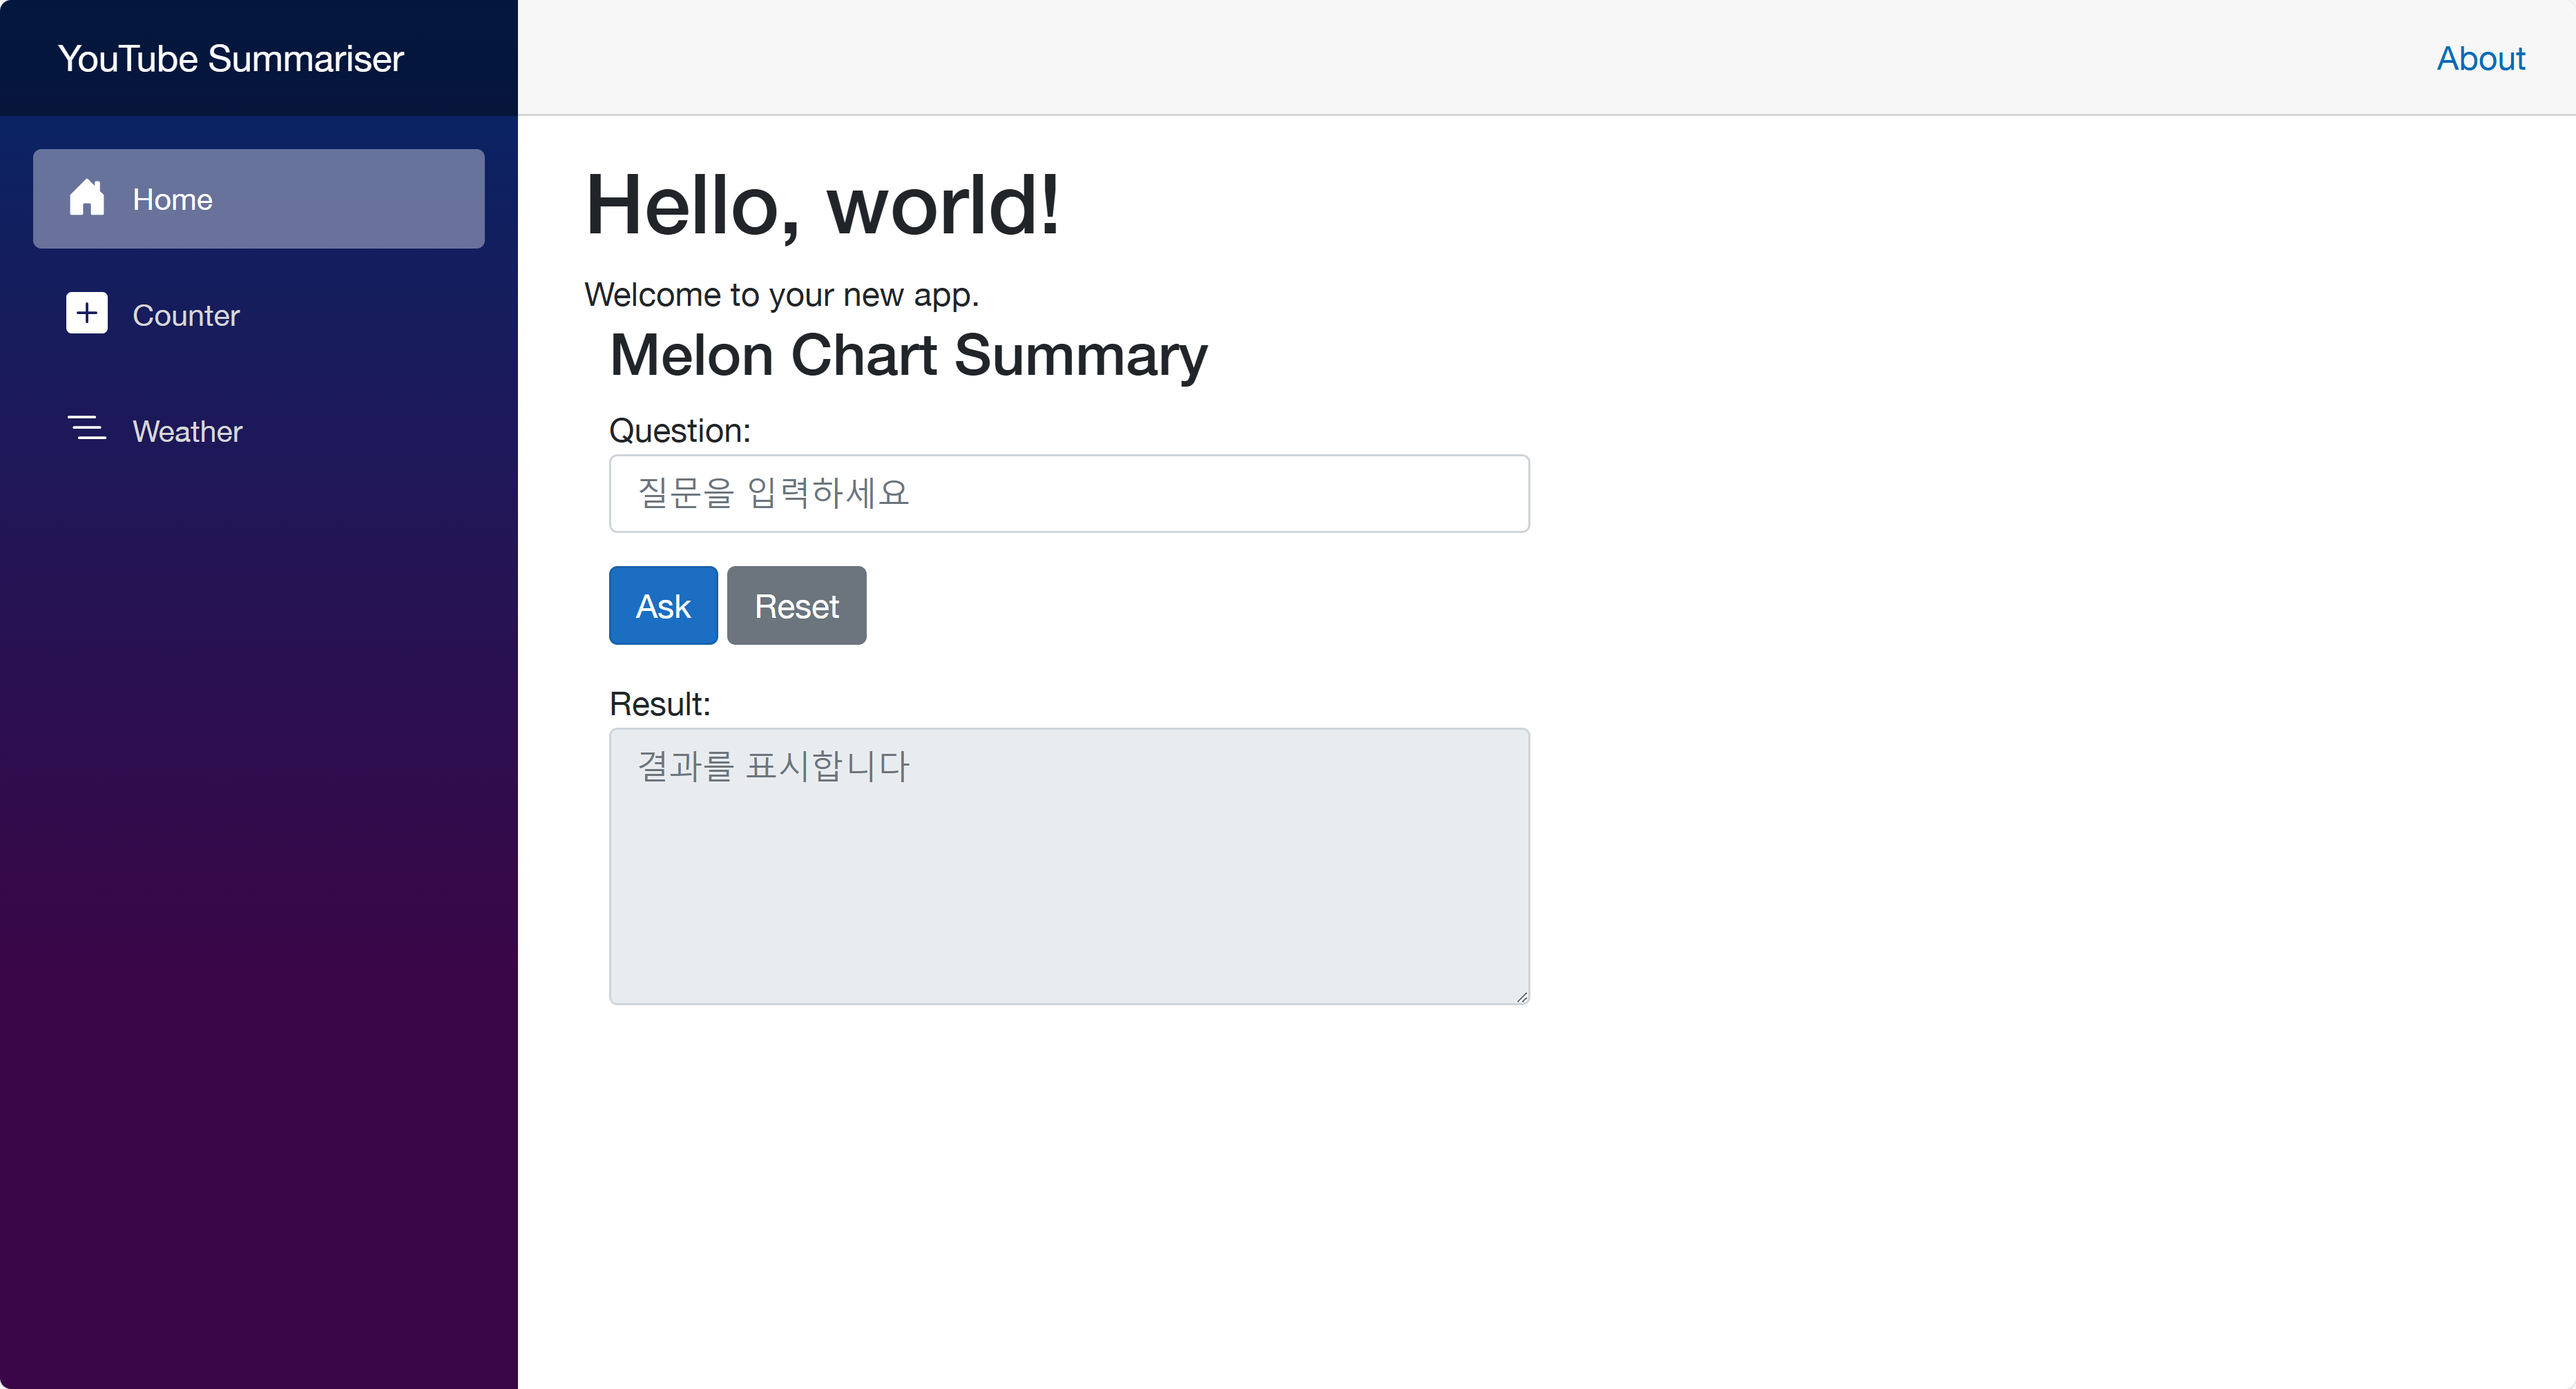
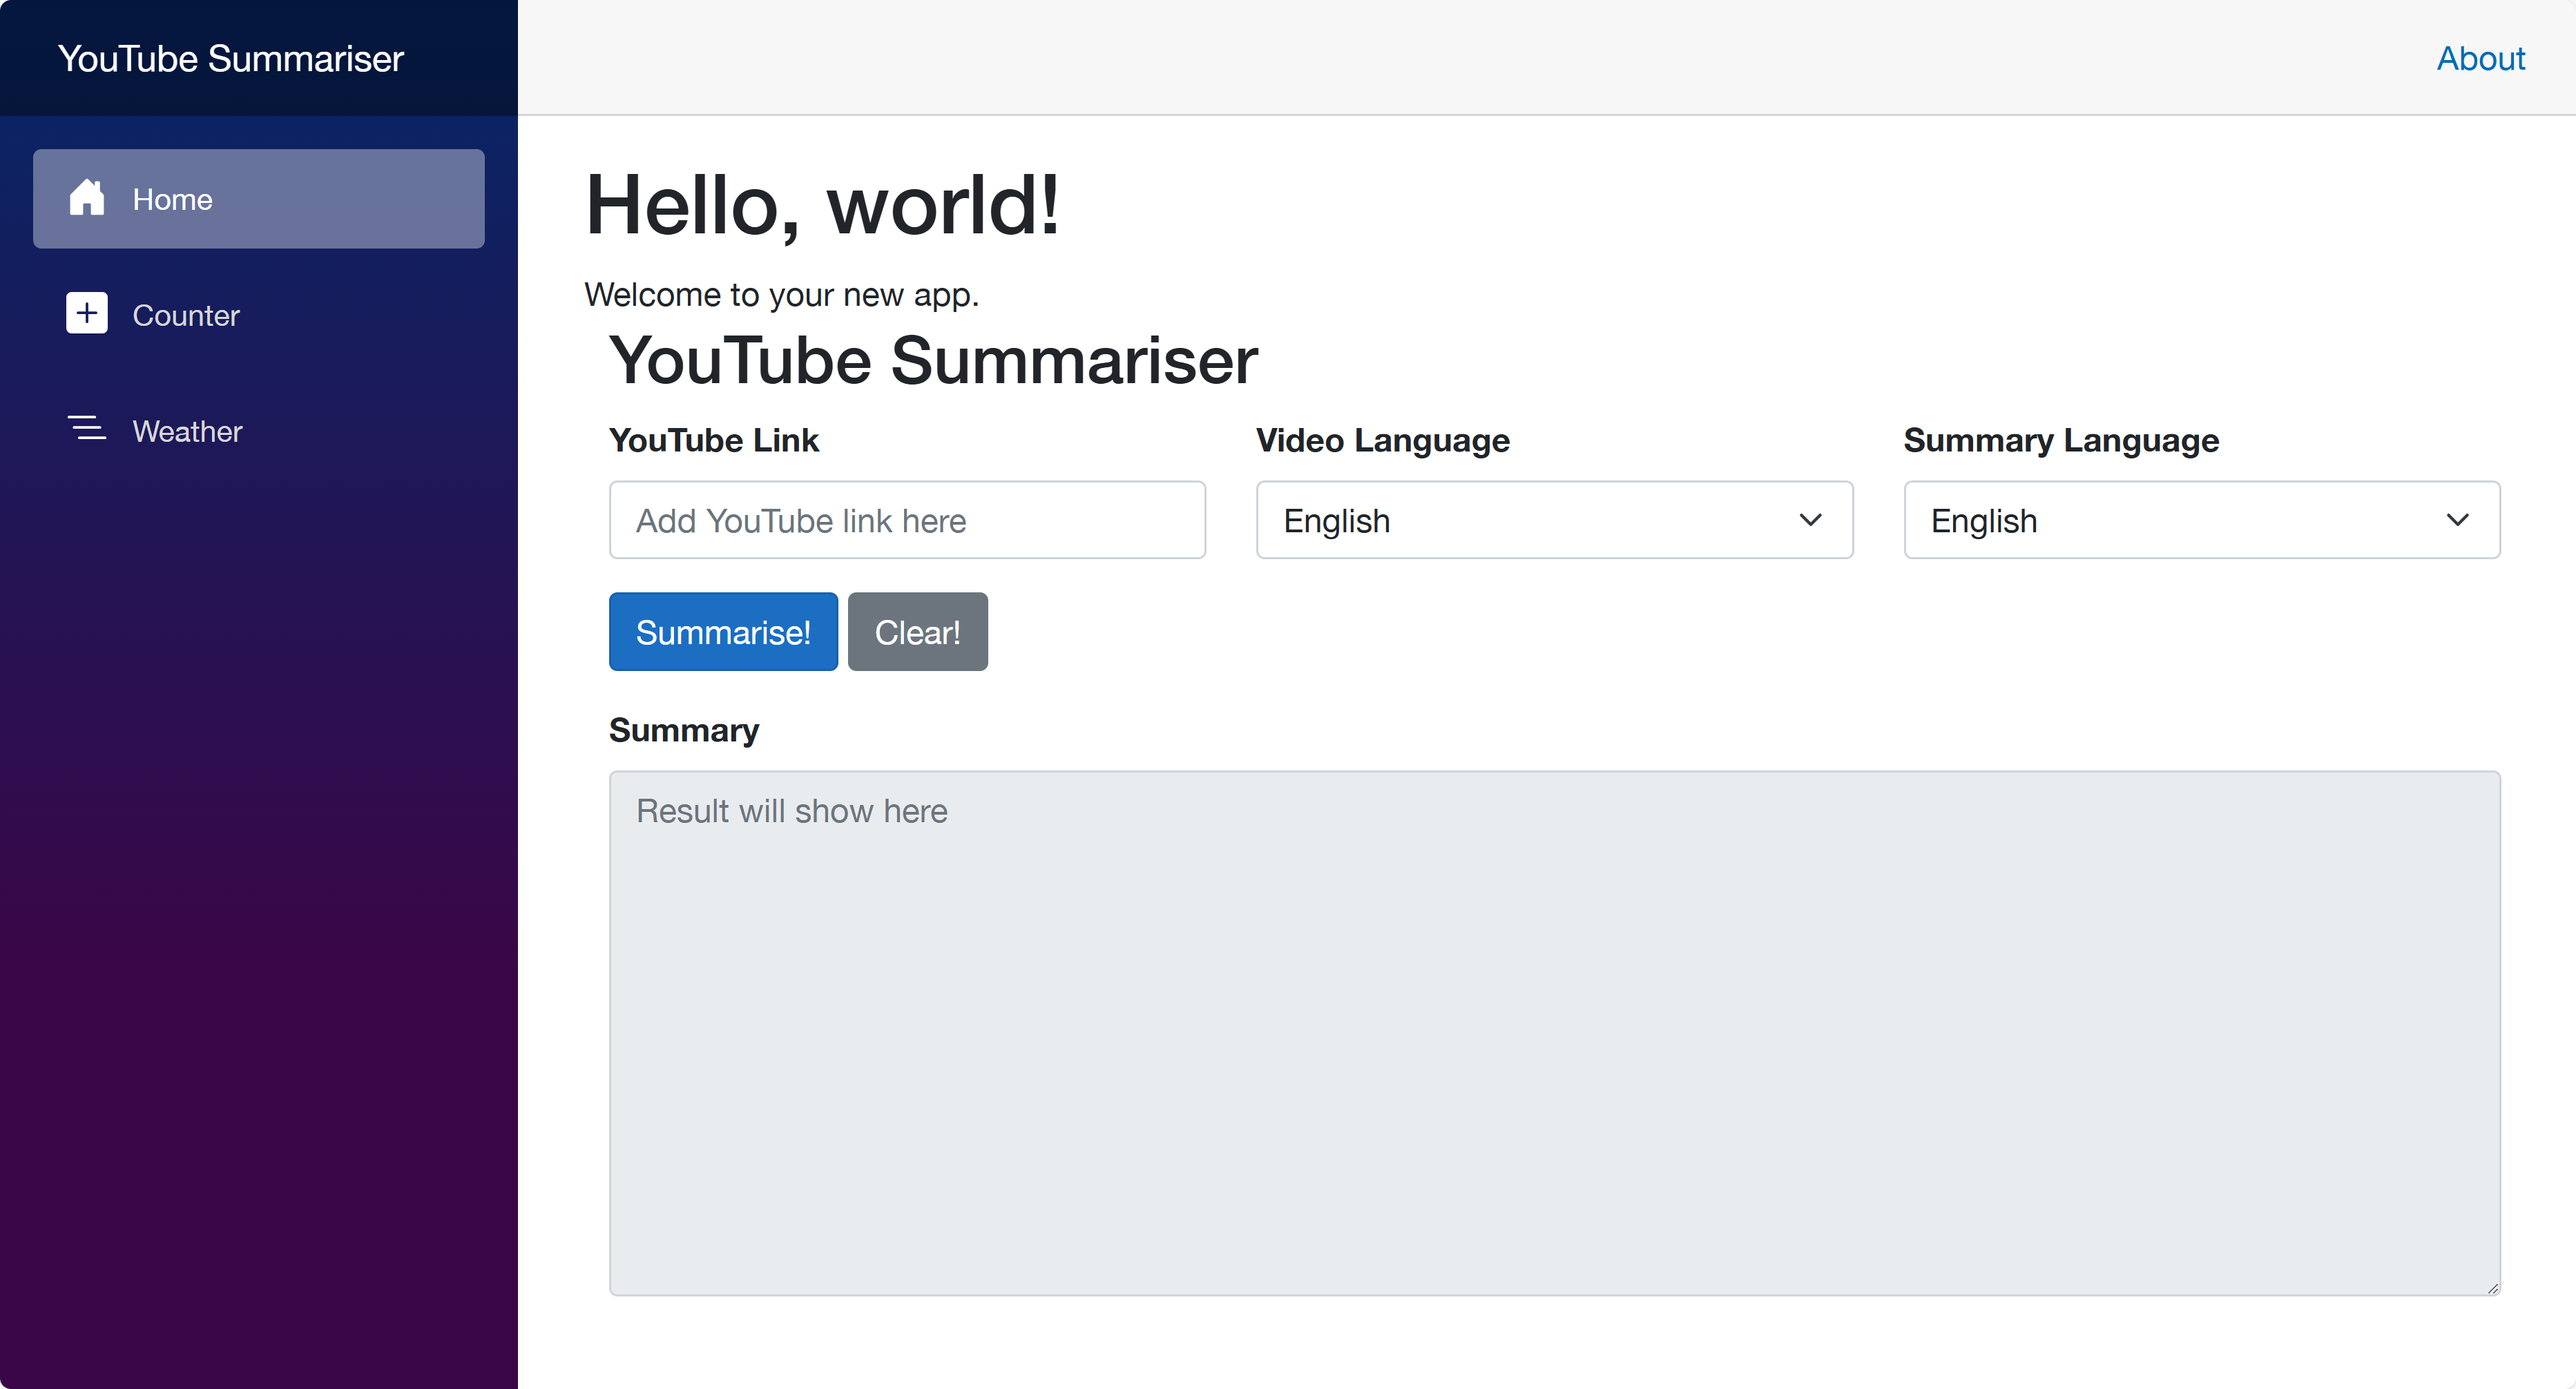
Update README

diff --git a/README.md b/README.md
@@ -20,55 +20,68 @@
      - 홈페이지에서 질문을 입력하고 결과를 표시하는 화면을 구성합니다.
      - 화면 UI는 자유롭게 구성하되 질문을 입력하고 결과를 표시할 수 있어야 합니다.
 
-       > **중요**: 반드시 아래 세 가지 요소를 포함해야 합니다.
+       > **중요**: 반드시 아래 다섯 가지 요소를 반드시 포함해야 합니다.
 
-       - 질문: `<input id="question" />`,
-       - 요청: `<button id="ask">Ask</button>`,
+       - YouTube 링크: `<input id="youtube-link" />`,
+       - 비디오 언어: `<select id="video-language-code"></select>`,
+       - 요약 언어: `<select id="summary-language-code"></select>`
+       - 요청: `<button id="summary">Summary</button>`,
        - 답변: `<textarea id="result"></textarea>`
 
-     - `Ask` 버튼을 클릭하면, 백엔드 API 앱의 `/melonchart` 엔드포인트를 호출해서 결과를 화면에 표시해야 합니다.
+     - `Summary` 버튼을 클릭하면, 백엔드 API 앱의 `/summarise` 엔드포인트를 호출해서 결과를 화면에 표시해야 합니다.
 
      - 예시 화면:
 
        ![frontend](./images/example-frontend.png)
 
    - 백엔드 API 앱: `backend` 디렉토리 아래 ASP.NET Core Web API로 개발합니다.
-     - Azure OpenAI와 Semantic Kernel을 이용해서 `/melonchart` 엔드포인트를 구현합니다.
-
-       > **아주 중요**: Azure OpenAI SDK는 **1.x** 버전을 사용합니다. 2.x 버전을 사용할 경우 오류가 발생할 수 있습니다.
-
-     - 백엔드 API 앱은 프론트엔드 UI를 통해서 뿐만 아니라 직접 API를 호출할 수 있어야 합니다. 즉, 인터넷에 노출되어야 합니다.
-     - 데이터셋: https://github.com/aliencube/MelonChart.NET/tree/main/data 에서 데이터셋을 가져와서 활용합니다.
-     - `/melonchart` 엔드포인트는 `POST` 방식으로 요청을 받아 처리합니다.
-     - 요청 Payload의 형태는 반드시 아래와 같아야 합니다:
-
-       ```json
-       {
-         "question": "자연어 질문"
-       }
-       ```
-
-     - 응답 Payload의 형태는 단순 문자열로 아래의 형식을 갖춰야 합니다:
-
-       ```plaintext
-       노래|가수|앨범|순위
-       ```
+     - `/weatherforecast` 엔드포인트를 구현합니다.
 
      - 예:
 
         **요청**
 
         ```bash
-        curl -X POST \
+        curl -X GET \
             -H "Content-Type: application/json" \
-            -d '{ "question": "지금 멜론 차트 1위는 누구야?" }' \
-            https://my-backend-api.koreacentral.azurecontainerapps.io/melonchart
+            https://my-backend-api.koreacentral.azurecontainerapps.io/weatherforecast
         ```
 
         **응답**
 
-        ```plaintext
-        Dynamite|방탄소년단|BE|1
+        ```json
+        [
+          {
+            "date": "2024-07-24",
+            "temperatureC": -9,
+            "summary": "Balmy",
+            "temperatureF": 16
+          },
+          {
+            "date": "2024-07-25",
+            "temperatureC": 41,
+            "summary": "Sweltering",
+            "temperatureF": 105
+          },
+          {
+            "date": "2024-07-26",
+            "temperatureC": 46,
+            "summary": "Sweltering",
+            "temperatureF": 114
+          },
+          {
+            "date": "2024-07-27",
+            "temperatureC": 48,
+            "summary": "Cool",
+            "temperatureF": 118
+          },
+          {
+            "date": "2024-07-28",
+            "temperatureC": 7,
+            "summary": "Freezing",
+            "temperatureF": 44
+          }
+        ]
         ```
 
      - 예시 화면:
@@ -79,7 +92,7 @@
 
    - 자신의 GItHub 리포지토리를 생성하고 코드를 커밋
    - 코드 커밋/푸시 이벤트가 발생하면 GitHub Actions를 통해 Azure Bicep을 이용해서 인프라를 생성하고 .NET Aspire 앱을 배포'
-   - Azure 배포를 위한 리소스 그룹 이름은 `challenge-{{자신의 GitHub ID}}`입니다.
+   - Azure 배포를 위한 리소스 그룹 이름은 `rg-{{자신의 GitHub ID}}`입니다.
 
 1. 배포 성공 후 https://hackersground.kr 에서 아래 내용을 [이슈](https://github.com/hackersground-kr/hackers-ground/issues/new/choose)로 제출해 주세요.
 
@@ -89,71 +102,3 @@
    - Azure Container Apps 서비스 URL - **프론트엔드 앱 URL**, **백엔드 API 앱 URL**, **대시보드 앱 URL**
 
 1. 이슈 생성후 검증단이 직접 확인하고, 성공적으로 배포하고 프론트엔드/백엔드 앱이 작동하는 경우에 한해 과제 완료로 처리합니다.
-
-## 추가 힌트
-
-1. Semantic Kernel 의존성 주입: 필요한 경우 아래와 같은 식으로 Semantic Kernel 인스턴스를 의존성 주입할 수 있습니다.
-
-   - Semantic Kernel 인스턴스 의존성 추가하기
-
-      ```csharp
-      // Semantic Kernel 인스턴스 의존성 추가하기
-      builder.Services.AddScoped<Kernel>(sp =>
-      {
-          // DO SOMETHING HERE
-  
-          var kernel = Kernel.CreateBuilder()
-                             .AddAzureOpenAIChatCompletion(
-                                 deploymentName: config["OpenAI:DeploymentName"],
-                                 endpoint: config["OpenAI:Endpoint"],
-                                 apiKey: config["OpenAI:ApiKey"])
-                             .Build();
-      
-          // DO SOMETHING HERE
-  
-          return kernel;
-      });
-      ```
-
-   - Semantic Memory 인스턴스 의존성 추가하기
-
-      ```csharp
-      // Semantic Memory 인스턴스 의존성 추가하기
-      #pragma warning disable SKEXP0001
-      #pragma warning disable SKEXP0010
-      #pragma warning disable SKEXP0050
-      builder.Services.AddSingleton<ISemanticTextMemory>(sp =>
-      {
-          // DO SOMETHING HERE
-  
-          var memory = new MemoryBuilder()
-                           .WithAzureOpenAITextEmbeddingGeneration(
-                               deploymentName: "model-textembeddingada002-2",
-                               endpoint: config["OpenAI:Endpoint"],
-                               apiKey: config["OpenAI:ApiKey"])
-                           .WithMemoryStore(new VolatileMemoryStore())
-                           .Build();
-      
-          // DO SOMETHING HERE
-  
-          return memory;
-      });
-      #pragma warning restore SKEXP0050
-      #pragma warning restore SKEXP0010
-      #pragma warning restore SKEXP0001
-      ```
-
-1. Semantic Kernel 프롬프트 실행: 필요한 경우 아래 내용을 `.csproj` 파일에 추가해야 할 수도 있습니다.
-
-    ```xml
-    <PropertyGroup>
-      <RunWorkingDirectory>$(MSBuildProjectDirectory)</RunWorkingDirectory>
-    </PropertyGroup>
-    
-    <ItemGroup>
-      <None Update="$(RunWorkingDirectory)\Prompts\**">
-        <CopyToOutputDirectory>PreserveNewest</CopyToOutputDirectory>
-        <CopyToPublishDirectory>PreserveNewest</CopyToPublishDirectory>
-      </None>
-    </ItemGroup>
-    ```
